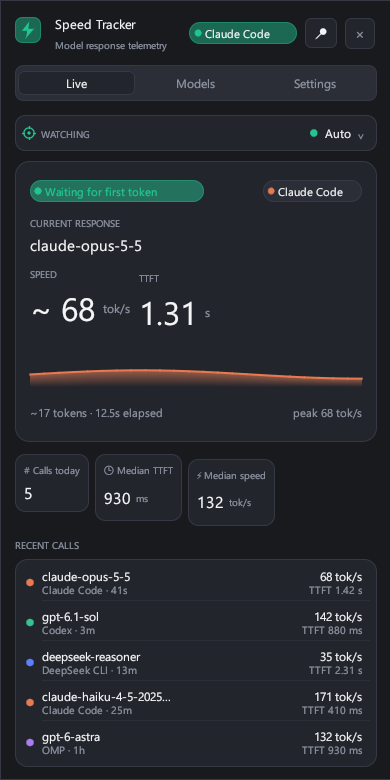
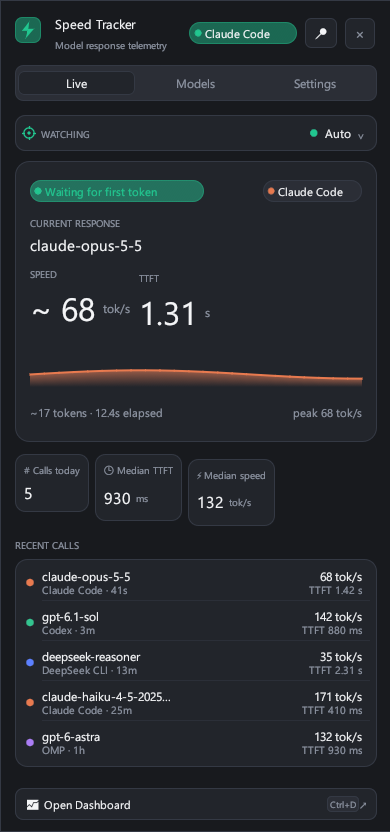
Give the Windows flyout one height on every tab
Live, Models and Settings were three different heights, so the flyout
jumped when switching tabs. It is now a fixed height (or the work area,
if smaller); a shorter tab keeps Open Dashboard at the bottom edge.

diff --git a/Windows/src/app/ui/live.rs b/Windows/src/app/ui/live.rs
@@ -18,7 +18,9 @@ use std::collections::HashMap;
 use std::time::{Duration, Instant};
 
 const WIDTH: f32 = 390.0;
-const INITIAL_HEIGHT: f32 = 620.0;
+// The flyout's height on every tab, where the work area allows it.
+const HEIGHT: f32 = 832.0;
+const INITIAL_HEIGHT: f32 = HEIGHT;
 const MARGIN: i8 = 14;
 // Gap between the flyout and the edge of the work area, in pixels.
 const EDGE: f32 = 12.0;
@@ -1096,6 +1098,11 @@ impl Live {
     // Bottom Open Dashboard button
     fn render_open_dashboard_button(&self, ui: &mut egui::Ui) {
         let colors = colors(ui);
+        // On a tab shorter than the flyout, the button sits at the bottom edge, not under the content.
+        let gap = ui.clip_rect().bottom() - ui.cursor().top() - 32.0;
+        if gap > 0.0 && gap.is_finite() {
+            ui.add_space(gap);
+        }
         let (rect, response) =
             ui.allocate_exact_size(egui::vec2(ui.available_width(), 32.0), Sense::click());
         if response.clicked() {
@@ -1618,13 +1625,13 @@ impl eframe::App for Live {
         }));
 
         let scale = context.pixels_per_point();
-        let available = self.work.map_or(780.0, |[_, top, _, bottom]| {
+        let available = self.work.map_or(HEIGHT, |[_, top, _, bottom]| {
             (bottom - top) as f32 / scale - 2.0 * EDGE
         });
-        let wanted = (content.y + 2.0 * f32::from(MARGIN) + 2.0)
-            .max(if dialog_open { 340.0 } else { 100.0 })
-            .min(available.clamp(100.0, 780.0))
-            .round();
+        // Every tab is the same height, so switching tabs never moves or resizes the flyout. A tab with
+        // more than fits scrolls; one with less leaves its Open Dashboard button at the bottom.
+        let _ = content;
+        let wanted = HEIGHT.min(available.max(100.0)).round();
         let current = context.input(|input| input.screen_rect().height());
         if (wanted - current).abs() > 1.0 {
             context.send_viewport_cmd(ViewportCommand::InnerSize(egui::vec2(WIDTH, wanted)));
